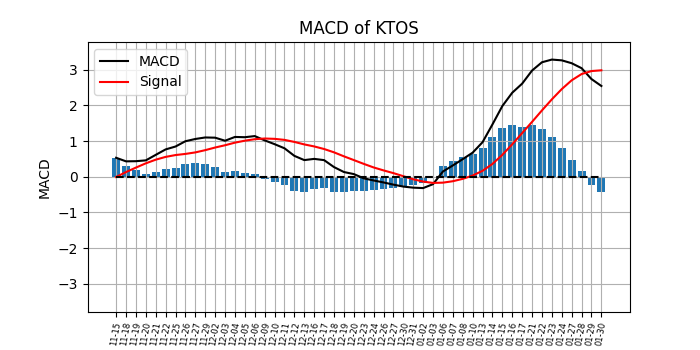
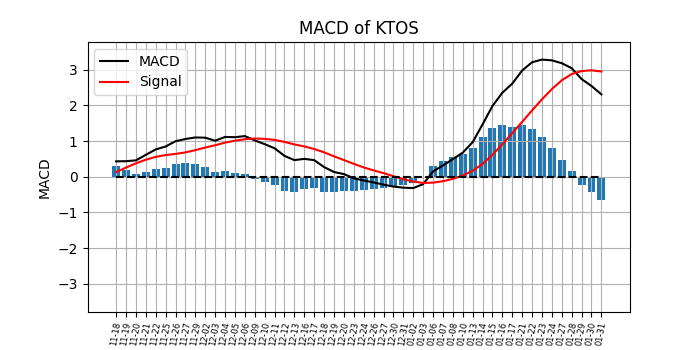
update plots

diff --git a/_posts/2025-02-01-LYFT.md b/_posts/2025-02-01-LYFT.md
@@ -1,0 +1,20 @@
+---
+layout: post
+title: "LYFT"
+company: Lyft Inc.
+date: 2025-02-01 -0500
+categories: consumer
+---
+
+### Most up to date figures for {{page.company}} ({{ page.title }}).
+
+![Image]({{ site.baseurl }}/assets/figures/{{ page.title }}/sma.png)
+![Image]({{ site.baseurl }}/assets/figures/{{ page.title }}/macd.png)
+![Image]({{ site.baseurl }}/assets/figures/{{ page.title }}/rsi.png)
+
+### Transactions
+
+**Buy**: $20 on 1/22/25
+
+### Thoughts
+(1/21/25) - **Buy**. Opportunity here as the 5 day MA is about to cross 20 day. In addition, MACD has upward momentum and the RSI is near median.

diff --git a/_posts/2025-02-01-W.md b/_posts/2025-02-01-W.md
@@ -1,9 +1,9 @@
 ---
 layout: post
-title: "LYFT"
-company: Lyft Inc.
-date: 2025-01-30 -0500
-categories: consumer
+title: "W"
+company: Wayfair Inc.
+date: 2025-02-01 -0500
+categories: internet retail
 ---
 
 ### Most up to date figures for {{page.company}} ({{ page.title }}).
@@ -14,7 +14,4 @@ categories: consumer
 
 ### Transactions
 
-**Buy**: $20 on 1/22/25
-
 ### Thoughts
-(1/21/25) - **Buy**. Opportunity here as the 5 day MA is about to cross 20 day. In addition, MACD has upward momentum and the RSI is near median.

diff --git a/_posts/2025-02-01-KTOS.md b/_posts/2025-02-01-KTOS.md
@@ -2,7 +2,7 @@
 layout: post
 title: "KTOS"
 company: Kratos Defense & Security Solutions Inc.
-date: 2025-01-30 -0500
+date: 2025-02-01 -0500
 categories: defense
 ---
 

diff --git a/_posts/2025-02-01-VRTX.md b/_posts/2025-02-01-VRTX.md
@@ -2,7 +2,7 @@
 layout: post
 title: "VRTX"
 company: Vertex Pharma Inc.
-date: 2025-01-30 -0500
+date: 2025-02-01 -0500
 categories: biotech
 ---
 
